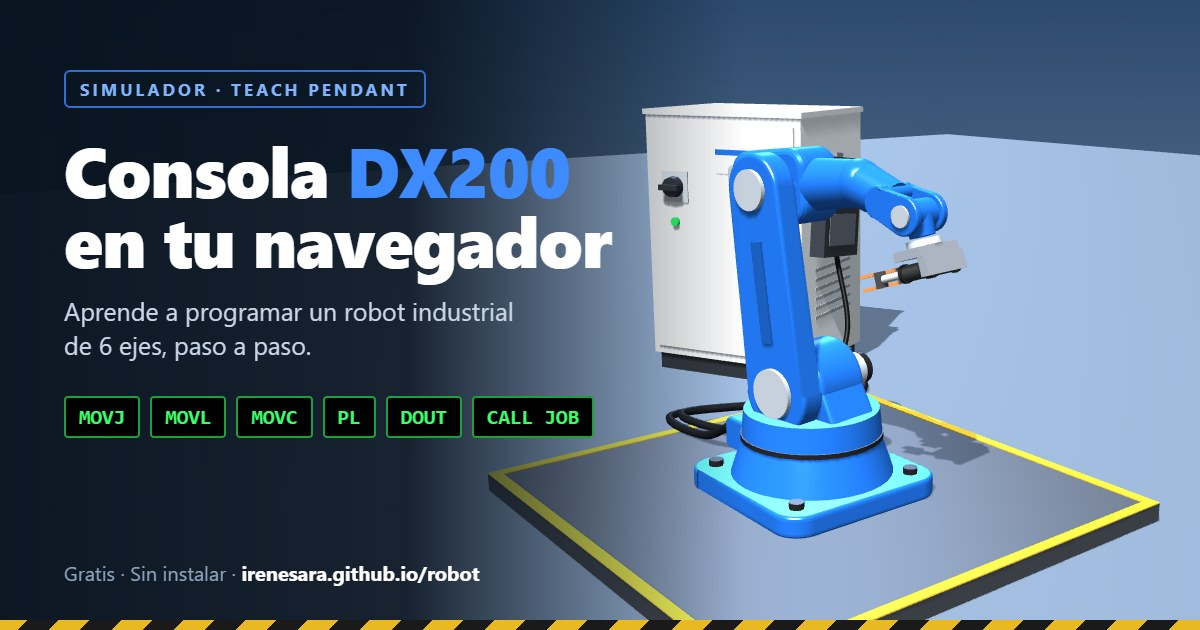
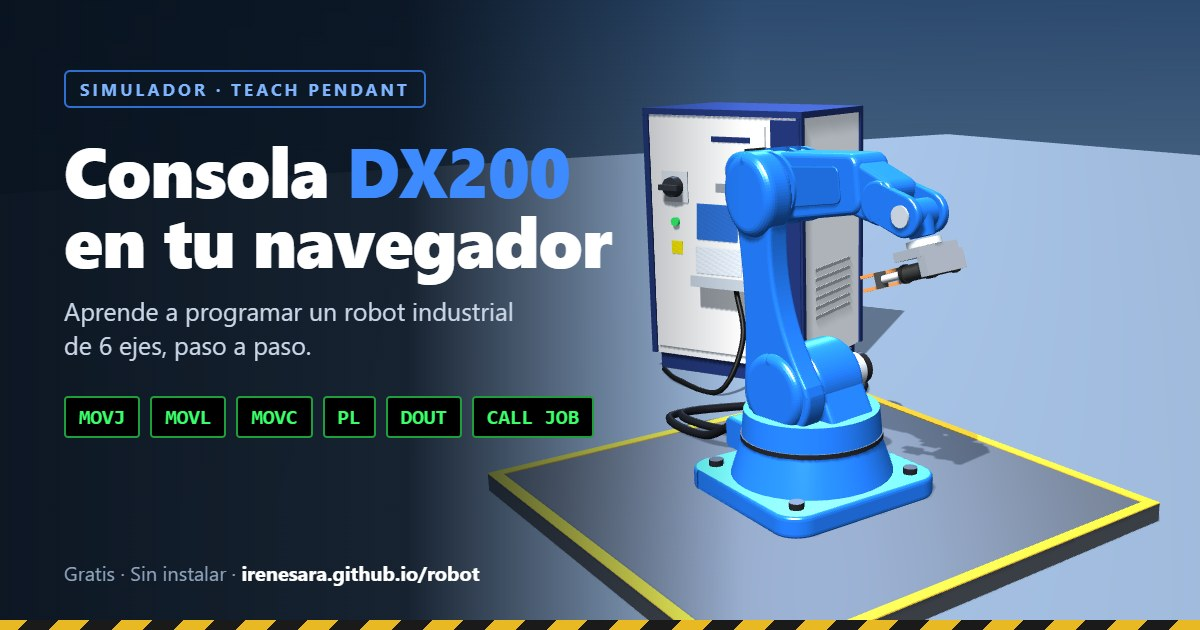
Add files via upload

Changed region(s): [[0.5242, 0.1508, 0.8017, 0.6937], [0.74, 0.6635, 0.7708, 0.6937]]

diff --git a/index.html b/index.html
@@ -1541,56 +1541,141 @@ function buildRobot() {
     joint1.position.y = 0.05; // Pivote eje L (no cambiar)
     joint0.add(joint1);
 
-    // Brazo inferior lateral (estilo Motoman, montado a un lado)
-    const lArm = linkPlate(0.32, 0.062, 0.050, 0.042, yBlue);
+    // Brazo inferior estilo Motoman: fino en el centro, ensanchado solo en las
+    // articulaciones (más ancho abajo, en el eje L, que arriba, en el eje U)
+    // y ligeramente curvado hacia atrás.
+    function curvedLink(len, r0, r1, waist, bow, depth, color, bevel = 0.006) {
+        const sh = new THREE.Shape();
+        // borde delantero (y negativo): de la articulación L a la U pasando por la cintura
+        const cBot = 2 * (-waist + bow) + 0.5 * (r0 + r1);
+        // borde trasero (y positivo)
+        const cTop = 2 * (waist + bow) - 0.5 * (r0 + r1);
+        sh.moveTo(0, -r0);
+        sh.quadraticCurveTo(len * 0.5, cBot, len, -r1);
+        sh.absarc(len, 0, r1, -Math.PI / 2, Math.PI / 2, false);
+        sh.quadraticCurveTo(len * 0.5, cTop, 0, r0);
+        sh.absarc(0, 0, r0, Math.PI / 2, Math.PI * 1.5, false);
+        const g = new THREE.ExtrudeGeometry(sh, {
+            depth: depth - 2 * bevel, bevelEnabled: true, bevelThickness: bevel,
+            bevelSize: bevel, bevelSegments: 4, curveSegments: 40
+        });
+        g.translate(0, 0, -(depth - 2 * bevel) / 2);
+        const m = new THREE.Mesh(g, M(color));
+        m.castShadow = true; m.receiveShadow = true;
+        return m;
+    }
+
+    const lArm = curvedLink(0.32, 0.070, 0.044, 0.031, 0.012, 0.040, yBlue);
     lArm.position.z = 0.062;
     joint1.add(lArm);
 
-    // Tapas de rodamiento en los ejes L y U
-    const lCap = cyl(0.040, 0.040, 0.008, yGrey, 'z');
-    lCap.position.set(0, 0, 0.087);
-    joint1.add(lCap);
-    const uCap = cyl(0.032, 0.032, 0.008, yGrey, 'z');
-    uCap.position.set(0.32, 0, 0.087);
-    joint1.add(uCap);
+    // Tapa abombada (elipse extruida con bisel grande = cara redondeada)
+    function domeCap(rx, ry, depth, bevel, color) {
+        const sh = new THREE.Shape();
+        sh.absellipse(0, 0, rx - bevel, ry - bevel, 0, Math.PI * 2, false, 0);
+        const g = new THREE.ExtrudeGeometry(sh, {
+            depth: Math.max(0.001, depth - 2 * bevel), bevelEnabled: true, bevelThickness: bevel,
+            bevelSize: bevel, bevelSegments: 6, curveSegments: 40
+        });
+        g.translate(0, 0, -Math.max(0.001, depth - 2 * bevel) / 2);
+        const m = new THREE.Mesh(g, M(color));
+        m.castShadow = true; m.receiveShadow = true;
+        return m;
+    }
 
-    // Rebaje decorativo (ranura) en el brazo inferior
-    const lGroove = new THREE.Mesh(new THREE.BoxGeometry(0.16, 0.022, 0.004), M(0x174f9e));
-    lGroove.position.set(0.16, 0, 0.0845);
-    joint1.add(lGroove);
+    // Articulación de abajo (eje L): tapa redonda grande, azul como el robot real
+    const lCap = domeCap(0.064, 0.064, 0.05, 0.014, yBlue);
+    lCap.position.set(0, 0, 0.068);
+    joint1.add(lCap);
+
+    // Cabeza del eje U: tapa ovalada y abombada, más ancha que el brazo
+    const uHead = domeCap(0.066, 0.056, 0.056, 0.016, yBlue);
+    uHead.position.set(0.312, 0.004, 0.066);
+    joint1.add(uHead);
 
     joints.push(joint0);
     joints.push(joint1);
 
-    // ================= EJE U (carcasa del brazo superior) =================
+    // Viga de sección rectangular redondeada que se estrecha (perfil lateral en XY, extruida en Z)
+    function roundedPoly(pts, r) {
+        const sh = new THREE.Shape();
+        const n = pts.length;
+        for (let i = 0; i < n; i++) {
+            const p = pts[i], prev = pts[(i + n - 1) % n], next = pts[(i + 1) % n];
+            const d1 = new THREE.Vector2(prev.x - p.x, prev.y - p.y).normalize().multiplyScalar(r);
+            const d2 = new THREE.Vector2(next.x - p.x, next.y - p.y).normalize().multiplyScalar(r);
+            const a1 = new THREE.Vector2(p.x + d1.x, p.y + d1.y), a2 = new THREE.Vector2(p.x + d2.x, p.y + d2.y);
+            if (i === 0) sh.moveTo(a1.x, a1.y); else sh.lineTo(a1.x, a1.y);
+            sh.quadraticCurveTo(p.x, p.y, a2.x, a2.y);
+        }
+        sh.closePath();
+        return sh;
+    }
+    function taperBeam(len, h0, h1, depth, rc, color, bevel = 0.009) {
+        const pts = [new THREE.Vector2(0, -h0), new THREE.Vector2(len, -h1), new THREE.Vector2(len, h1), new THREE.Vector2(0, h0)];
+        const g = new THREE.ExtrudeGeometry(roundedPoly(pts, rc), {
+            depth: depth - 2 * bevel, bevelEnabled: true, bevelThickness: bevel,
+            bevelSize: bevel * 0.8, bevelSegments: 4, curveSegments: 8
+        });
+        g.translate(0, 0, -(depth - 2 * bevel) / 2);
+        const m = new THREE.Mesh(g, M(color));
+        m.castShadow = true; m.receiveShadow = true;
+        return m;
+    }
+
+    // ================= EJE U (carcasa del codo + antebrazo) =================
     const joint2 = new THREE.Group();
     joint2.position.x = 0.32; // Pivote eje U (no cambiar)
     joint1.add(joint2);
 
-    // Carcasa del codo (aloja los motores R/B/T en la parte trasera)
-    const uCase = roundedBox(0.15, 0.10, 0.082, 0.025, yBlue);
-    uCase.position.set(-0.012, 0, 0);
-    joint2.add(uCase);
+    // Carcasa cilíndrica del codo (reductor del eje U) con anillos en relieve y tornillos
+    const uDrum = cyl(0.056, 0.056, 0.088, yBlue, 'z', 40);
+    joint2.add(uDrum);
+    [-0.03, 0.006].forEach(z => {
+        const ring = cyl(0.06, 0.06, 0.008, 0x1a58b0, 'z', 40);
+        ring.position.z = z;
+        joint2.add(ring);
+    });
+    for (let i = 0; i < 8; i++) {
+        const a = i / 8 * Math.PI * 2;
+        const bolt = cyl(0.0045, 0.0045, 0.006, 0x174a94, 'z', 10);
+        bolt.position.set(Math.cos(a) * 0.046, Math.sin(a) * 0.046, -0.046);
+        joint2.add(bolt);
+    }
+    // Relieves de la tapa del reductor en la parte superior
+    [-0.012, 0.012].forEach(z => {
+        const rib = new THREE.Mesh(new THREE.BoxGeometry(0.05, 0.008, 0.008), M(0x1a58b0));
+        rib.position.set(-0.01, 0.057, z);
+        joint2.add(rib);
+    });
 
-    // Tapa trasera de motores de muñeca
-    const rearCover = roundedBox(0.03, 0.075, 0.07, 0.012, yGrey);
-    rearCover.position.set(-0.092, 0, 0);
+    // Carcasa trasera (aloja los motores de muñeca R/B/T)
+    const uCase = roundedBox(0.10, 0.092, 0.082, 0.024, yBlue);
+    uCase.position.set(-0.055, 0.004, 0);
+    joint2.add(uCase);
+    const rearCover = roundedBox(0.018, 0.07, 0.066, 0.008, yGrey);
+    rearCover.position.set(-0.108, 0.004, 0);
     joint2.add(rearCover);
+    const rearConn = new THREE.Mesh(new THREE.BoxGeometry(0.02, 0.016, 0.03), M(yDark));
+    rearConn.position.set(-0.075, 0.054, 0);
+    joint2.add(rearConn);
 
     // Motor del eje U (lado opuesto al brazo inferior)
-    servoMotor(joint2, 0, 0, -0.041, -1);
+    servoMotor(joint2, 0, 0, -0.044, -1);
 
-    // Raíz del antebrazo (tubo cónico)
-    const foreRoot = cyl(0.036, 0.042, 0.10, yBlue, 'x');
-    foreRoot.position.x = 0.10;
-    joint2.add(foreRoot);
+    // Antebrazo: viga larga, recta y que se estrecha hacia la muñeca (zona del logotipo)
+    const foreBeam = taperBeam(0.17, 0.047, 0.037, 0.074, 0.014, yBlue);
+    foreBeam.position.x = 0.005;
+    joint2.add(foreBeam);
 
-    // Placa blanca de identificación (lateral)
-    const plate = new THREE.Mesh(new THREE.BoxGeometry(0.075, 0.002, 0.045), M(0xf2f2f2, 40));
-    plate.position.set(-0.02, 0.0505, 0);
-    joint2.add(plate);
+    // Cubierta lateral ligeramente rehundida (donde va el rótulo en el robot real)
+    [-1, 1].forEach(side => {
+        const panel = taperBeam(0.11, 0.03, 0.026, 0.004, 0.01, 0x1a5ab4, 0.0015);
+        panel.position.set(0.035, 0, side * 0.0375);
+        joint2.add(panel);
+    });
 
-    const wristBase = new THREE.Mesh(new THREE.SphereGeometry(0.037, 24, 16), M(yBlue));
+    const wristBase = new THREE.Mesh(new THREE.SphereGeometry(0.036, 24, 16), M(yBlue));
     wristBase.castShadow = true;
     wristBase.position.x = 0.15;
     joint2.add(wristBase);
@@ -1602,21 +1687,23 @@ function buildRobot() {
     joint3.position.x = 0.15; // Pivote eje R (no cambiar)
     joint2.add(joint3);
 
-    const rTube = cyl(0.030, 0.036, 0.075, yBlue, 'x');
-    rTube.position.x = 0.0375;
-    joint3.add(rTube);
-
-    const rSeal = cyl(0.031, 0.031, 0.006, yDark, 'x');
-    rSeal.position.x = 0.005;
+    // Junta giratoria del eje R
+    const rSeal = roundedBox(0.006, 0.07, 0.066, 0.012, yDark);
+    rSeal.position.x = 0.004;
     joint3.add(rSeal);
 
-    // Horquilla de la muñeca (dos placas laterales)
+    // Tramo delantero del antebrazo (gira con R)
+    const rBeam = taperBeam(0.075, 0.034, 0.028, 0.062, 0.012, yBlue, 0.008);
+    rBeam.position.x = 0.007;
+    joint3.add(rBeam);
+
+    // Cabeza de la muñeca: horquilla con dos placas que sujetan el eje B
     [-1, 1].forEach(side => {
-        const fork = linkPlate(0.05, 0.022, 0.026, 0.012, yBlue, 0.003);
-        fork.position.set(0.07, 0, side * 0.029);
+        const fork = linkPlate(0.05, 0.028, 0.027, 0.013, yBlue, 0.004);
+        fork.position.set(0.07, 0, side * 0.0295);
         joint3.add(fork);
     });
-    const forkBridge = roundedBox(0.02, 0.044, 0.07, 0.008, yBlue);
+    const forkBridge = roundedBox(0.02, 0.054, 0.072, 0.01, yBlue);
     forkBridge.position.set(0.072, 0, 0);
     joint3.add(forkBridge);
     joints.push(joint3);
@@ -1819,17 +1906,20 @@ function buildDX200Cabinet() {
     scene.add(cab);
 
     const W = 0.40, H = 0.56, D = 0.30;
-    const bodyCol = 0xDCDEDF, doorCol = 0xE9EAEA, darkCol = 0x2b2d31;
+    const bodyCol = 0xEEF0F1, doorCol = 0xF6F7F8, darkCol = 0x2b2d31, navy = 0x1C2B5E;
 
-    // Zócalo y cuerpo
-    box(W - 0.02, 0.04, D - 0.02, darkCol, 0, 0.02, 0, cab);
+    // Zócalo, cuerpo blanco y marco azul oscuro (como el DX200 real)
+    box(W - 0.02, 0.04, D - 0.02, navy, 0, 0.02, 0, cab);
     box(W, H, D, bodyCol, 0, 0.04 + H / 2, 0, cab);
-    // Tapa superior ligeramente mayor
-    box(W + 0.01, 0.012, D + 0.01, 0xcfd2d4, 0, 0.04 + H + 0.006, 0, cab);
+    box(W + 0.01, 0.014, D + 0.01, navy, 0, 0.04 + H + 0.007, 0, cab);                 // techo
+    [-1, 1].forEach(sx => box(0.014, H, 0.014, navy, sx * (W / 2 - 0.002), 0.04 + H / 2, D / 2 - 0.002, cab));
+    [-1, 1].forEach(sx => box(0.014, H, 0.014, navy, sx * (W / 2 - 0.002), 0.04 + H / 2, -D / 2 + 0.002, cab));
+    // Franja vertical azul oscuro en el frente derecho (donde va el rótulo DX200)
+    box(0.07, H - 0.01, 0.008, navy, W / 2 - 0.035, 0.04 + H / 2, D / 2 + 0.004, cab);
 
-    // Puerta frontal con junta
+    // Puerta frontal blanca
     const doorZ = D / 2 + 0.004;
-    box(W - 0.03, H - 0.04, 0.006, doorCol, 0, 0.04 + H / 2, doorZ, cab);
+    box(W - 0.10, H - 0.04, 0.006, doorCol, -0.035, 0.04 + H / 2, doorZ, cab);
 
     // Interruptor general (maneta giratoria sobre placa)
     box(0.07, 0.07, 0.004, 0xb9bcbf, -0.12, 0.44, doorZ + 0.005, cab);
@@ -1847,11 +1937,11 @@ function buildDX200Cabinet() {
     cab.add(pb);
 
     // Cerraduras de la puerta
-    [0.48, 0.18].forEach(y => box(0.012, 0.03, 0.01, 0x777b80, 0.165, y, doorZ + 0.006, cab));
+    [0.48, 0.18].forEach(y => box(0.012, 0.03, 0.01, 0x777b80, 0.13, y, doorZ + 0.006, cab));
 
-    // Placa de características
-    box(0.12, 0.05, 0.002, 0xf6f6f6, 0.05, 0.50, doorZ + 0.004, cab);
-    box(0.12, 0.012, 0.002, 0x1D63C4, 0.05, 0.522, doorZ + 0.0045, cab);
+    // Placa de características y etiqueta de aviso
+    box(0.10, 0.012, 0.002, navy, 0.03, 0.55, doorZ + 0.004, cab);
+    box(0.03, 0.03, 0.002, 0xF2C200, -0.12, 0.30, doorZ + 0.004, cab);
 
     // Rejillas de ventilación laterales
     for (let i = 0; i < 6; i++) {
@@ -1859,31 +1949,32 @@ function buildDX200Cabinet() {
         box(0.002, 0.008, 0.18, 0x9a9da1, -W / 2 - 0.001, 0.15 + i * 0.022, 0, cab);
     }
 
-    // Teach pendant colgado en el lateral
+    // Teach pendant colgado en la puerta (como en las fotos del DX200)
     const tp = new THREE.Group();
-    tp.position.set(W / 2 + 0.03, 0.40, 0.04);
-    tp.rotation.y = Math.PI / 2;
-    tp.rotation.x = -0.12;
+    tp.position.set(0.02, 0.33, doorZ + 0.03);
+    tp.rotation.x = -0.06;
     cab.add(tp);
-    box(0.03, 0.02, 0.03, 0x777b80, 0, 0.11, -0.012, tp);         // gancho
-    box(0.17, 0.22, 0.035, 0x30343a, 0, 0, 0, tp);                 // carcasa
-    const screen = new THREE.Mesh(new THREE.BoxGeometry(0.11, 0.08, 0.002),
+    box(0.04, 0.02, 0.03, 0x777b80, 0, 0.115, -0.015, tp);        // gancho
+    box(0.15, 0.21, 0.032, 0xE2E5E8, 0, 0, 0, tp);                 // carcasa clara
+    box(0.15, 0.025, 0.034, 0x9aa0a8, 0, -0.095, 0, tp);           // empuñadura inferior
+    const screen = new THREE.Mesh(new THREE.BoxGeometry(0.105, 0.08, 0.002),
         new THREE.MeshPhongMaterial({ color: 0x1b3d6e, emissive: 0x0c2244 }));
-    screen.position.set(0, 0.045, 0.0185);
+    screen.position.set(-0.005, 0.04, 0.017);
     tp.add(screen);
-    box(0.13, 0.07, 0.002, 0x5b6068, 0, -0.05, 0.0185, tp);        // teclado
+    box(0.12, 0.06, 0.002, 0xb7bcc2, 0, -0.045, 0.017, tp);        // teclado
     const estop = new THREE.Mesh(new THREE.CylinderGeometry(0.014, 0.014, 0.012, 20),
         new THREE.MeshPhongMaterial({ color: 0xd01818, shininess: 80 }));
     estop.rotation.x = Math.PI / 2;
-    estop.position.set(0.065, 0.095, 0.02);
+    estop.position.set(0.058, 0.088, 0.018);
     tp.add(estop);
 
     // Cable del pendant (cuelga hasta el suelo)
     const pendCable = new THREE.CatmullRomCurve3([
-        new THREE.Vector3(W / 2 + 0.03, 0.29, 0.04),
-        new THREE.Vector3(W / 2 + 0.08, 0.12, 0.09),
-        new THREE.Vector3(W / 2 + 0.05, 0.01, 0.16),
-        new THREE.Vector3(W / 2 - 0.05, 0.008, D / 2 + 0.03)
+        new THREE.Vector3(0.05, 0.225, doorZ + 0.03),
+        new THREE.Vector3(0.09, 0.12, doorZ + 0.07),
+        new THREE.Vector3(0.06, 0.012, doorZ + 0.12),
+        new THREE.Vector3(-0.08, 0.008, doorZ + 0.08),
+        new THREE.Vector3(-0.16, 0.008, doorZ + 0.02)
     ]);
     const pc = new THREE.Mesh(new THREE.TubeGeometry(pendCable, 30, 0.006, 8, false), M(0x111111, 20));
     pc.castShadow = true;
